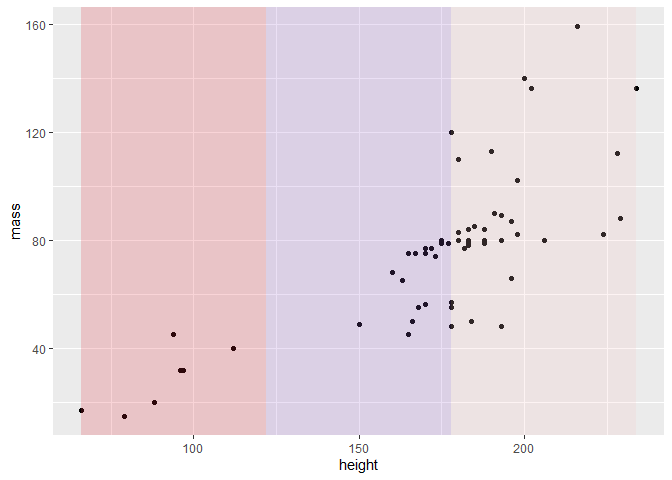
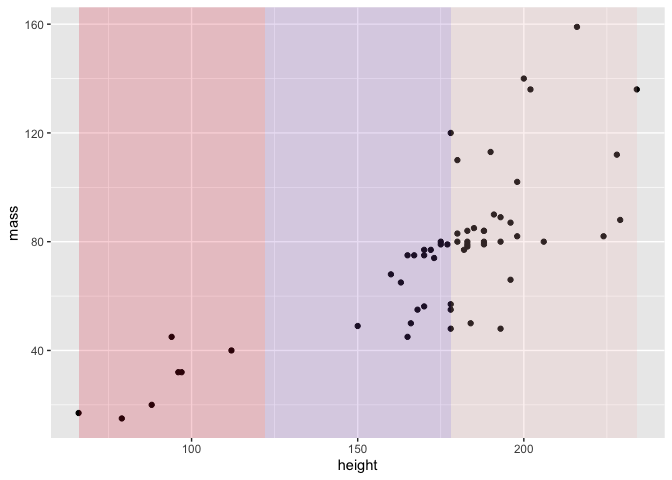
Updating captions for `readme` figures

diff --git a/README.md b/README.md
@@ -13,10 +13,10 @@ stable](https://img.shields.io/badge/lifecycle-stable-brightgreen.svg)](https://
 ### Overview
 
 The `ggArtsyR()` package works with `ggplot2()` to add an additional
-color palette to the user’s repertoire. This is the goghColors dataset,
-which contains the RGB and hex codes of colors picked from Van Gogh
-paintings. It also has a function that work alongside `ggplot2()` to
-create more interesting data visualizations and add contextual
+color palette to the user’s repertoire. This is the `goghColors`
+dataset, which contains the RGB and hex codes of colors picked from Van
+Gogh paintings. It also has a function that work alongside `ggplot2()`
+to create more interesting data visualizations and add contextual
 information to the user’s plots. This main function is
 `RectangleFiller()`, which divides data visualizations into a specified
 number of colored quadrants based on the number of input colors,
@@ -35,27 +35,18 @@ RectangleFiller(plotExample, c("#e32636", "#9966cc", "#f4c2c2"))
 
 ![](README_files/figure-gfm/unnamed-chunk-3-1.png)<!-- -->
 
-Continuous example using the `sunflowers` color palette:
+#### Continuous `scale_color_gogh` example using the `cafeTerrace` color palette:
 
 ``` r
  ggplot(exampleData, aes(x = height, y = mass, color = birth_year)) +
-   geom_point(size = 2) +
-   scale_color_gogh(palette = "sunflowers", discrete = FALSE, reverse=FALSE) +
+   geom_point(size = 3) +
+   scale_color_gogh(palette = "cafeTerrace", discrete = FALSE, reverse=TRUE) +
    theme_minimal()
 ```
 
 ![](README_files/figure-gfm/unnamed-chunk-4-1.png)<!-- -->
 
-Discrete example using the `almondBlossoms` color palette:
-
-``` r
-ggplot(storms, aes(x = hour, y = wind, color = status)) +
-  geom_point(size = 4) +
-  scale_color_gogh(palette = "almondBlossoms", discrete = TRUE, reverse=FALSE) +
-  theme_minimal()
-```
-
-![](README_files/figure-gfm/unnamed-chunk-5-1.png)<!-- -->
+#### Discrete `scale_fill_gogh` example using the `almondBlossoms` color palette:
 
 ``` r
 ggplot(storms, aes(x = category, fill = status)) +
@@ -64,7 +55,7 @@ ggplot(storms, aes(x = category, fill = status)) +
   theme_minimal()
 ```
 
-![](README_files/figure-gfm/unnamed-chunk-6-1.png)<!-- -->
+![](README_files/figure-gfm/unnamed-chunk-5-1.png)<!-- -->
 
 This package also comes with rgbToHex, converting rgb colors into hex
 code colors.
@@ -92,35 +83,42 @@ library(ggRtsy)
 
 ### Palettes
 
-`starryNight` = ‘#23338C’, ‘#30478C’, ‘#5377A6’, ‘#BDBF7E’, ‘#BFA72C’
+`starryNight` = ‘\#23338C’, ‘\#30478C’, ‘\#5377A6’, ‘\#BDBF7E’,
+‘\#BFA72C’
 
 <img src="https://uploads4.wikiart.org/00142/images/vincent-van-gogh/the-starry-night.jpg!Large.jpg" width="400" />
 
-`sunflowers` = ‘#74A629’, ‘#F2EB80’, ‘#F2E085’, ‘#BF9821’, ‘#A6681C’
+`sunflowers` = ‘\#74A629’, ‘\#F2EB80’, ‘\#F2E085’, ‘\#BF9821’,
+‘\#A6681C’
 
 <img src="https://uploads7.wikiart.org/images/vincent-van-gogh/still-life-vase-with-fifteen-sunflowers-1888-1.jpg!Large.jpg" width="400" />
 
-`selfPortrait` = ‘#021F59’, ‘#63A5BF’, ‘#8C701C’, ‘#BF9B6F’, ‘#730202’
+`selfPortrait` = ‘\#021F59’, ‘\#63A5BF’, ‘\#8C701C’, ‘\#BF9B6F’,
+‘\#730202’
 
 <img src="https://uploads8.wikiart.org/images/vincent-van-gogh/self-portrait-1889-1.jpg!Large.jpg" width="400" />
 
-`wheatField` = ‘#73A9D9’, ‘#477332’, ‘#D9B13B’, ‘#D98E32’, ‘#A66329’
+`wheatField` = ‘\#73A9D9’, ‘\#477332’, ‘\#D9B13B’, ‘\#D98E32’,
+‘\#A66329’
 
 <img src="https://uploads4.wikiart.org/images/vincent-van-gogh/wheat-field-with-cypresses-at-the-haude-galline-near-eygalieres-1889-2.jpg!Large.jpg" width="400" />
 
-`cafeTerrace` = ‘#2A6BBF’, ‘#3F6CA6’, ‘#F2C84B’, ‘#D99036’, ‘#BF6734’
+`cafeTerrace` = ‘\#2A6BBF’, ‘\#3F6CA6’, ‘\#F2C84B’, ‘\#D99036’,
+‘\#BF6734’
 
 <img src="https://uploads2.wikiart.org/images/vincent-van-gogh/cafe-terrace-place-du-forum-arles-1888(1).jpg!Large.jpg" width="400" />
 
-`rhoneStarry` = ‘#073359’, ‘#27668C’, ‘#5A98BF’, ‘#60734D’, ‘#A3A658’
+`rhoneStarry` = ‘\#073359’, ‘\#27668C’, ‘\#5A98BF’, ‘\#60734D’,
+‘\#A3A658’
 
 <img src="https://uploads0.wikiart.org/00175/images/vincent-van-gogh/starry-night-over-the-rhone.jpg!Large.jpg" width="400" />
 
-`irises` = ‘#415AA6’, ‘#6382BF’, ‘#65A67C’, ‘#8CA653’, ‘#A66D58’
+`irises` = ‘\#415AA6’, ‘\#6382BF’, ‘\#65A67C’, ‘\#8CA653’, ‘\#A66D58’
 
 <img src="https://uploads0.wikiart.org/00213/images/vincent-van-gogh/antique-3840759.jpg!Large.jpg" width="400" />
 
-`almondBlossoms` = ‘#236E8C’, ‘#20788C’, ‘#49B3BF’, ‘#41BFBF’, ‘#BDBF75’
+`almondBlossoms` = ‘\#236E8C’, ‘\#20788C’, ‘\#49B3BF’, ‘\#41BFBF’,
+‘\#BDBF75’
 
 <img src="https://uploads6.wikiart.org/images/vincent-van-gogh/branches-with-almond-blossom-1890(1).jpg!Large.jpg" width="400" />
 
